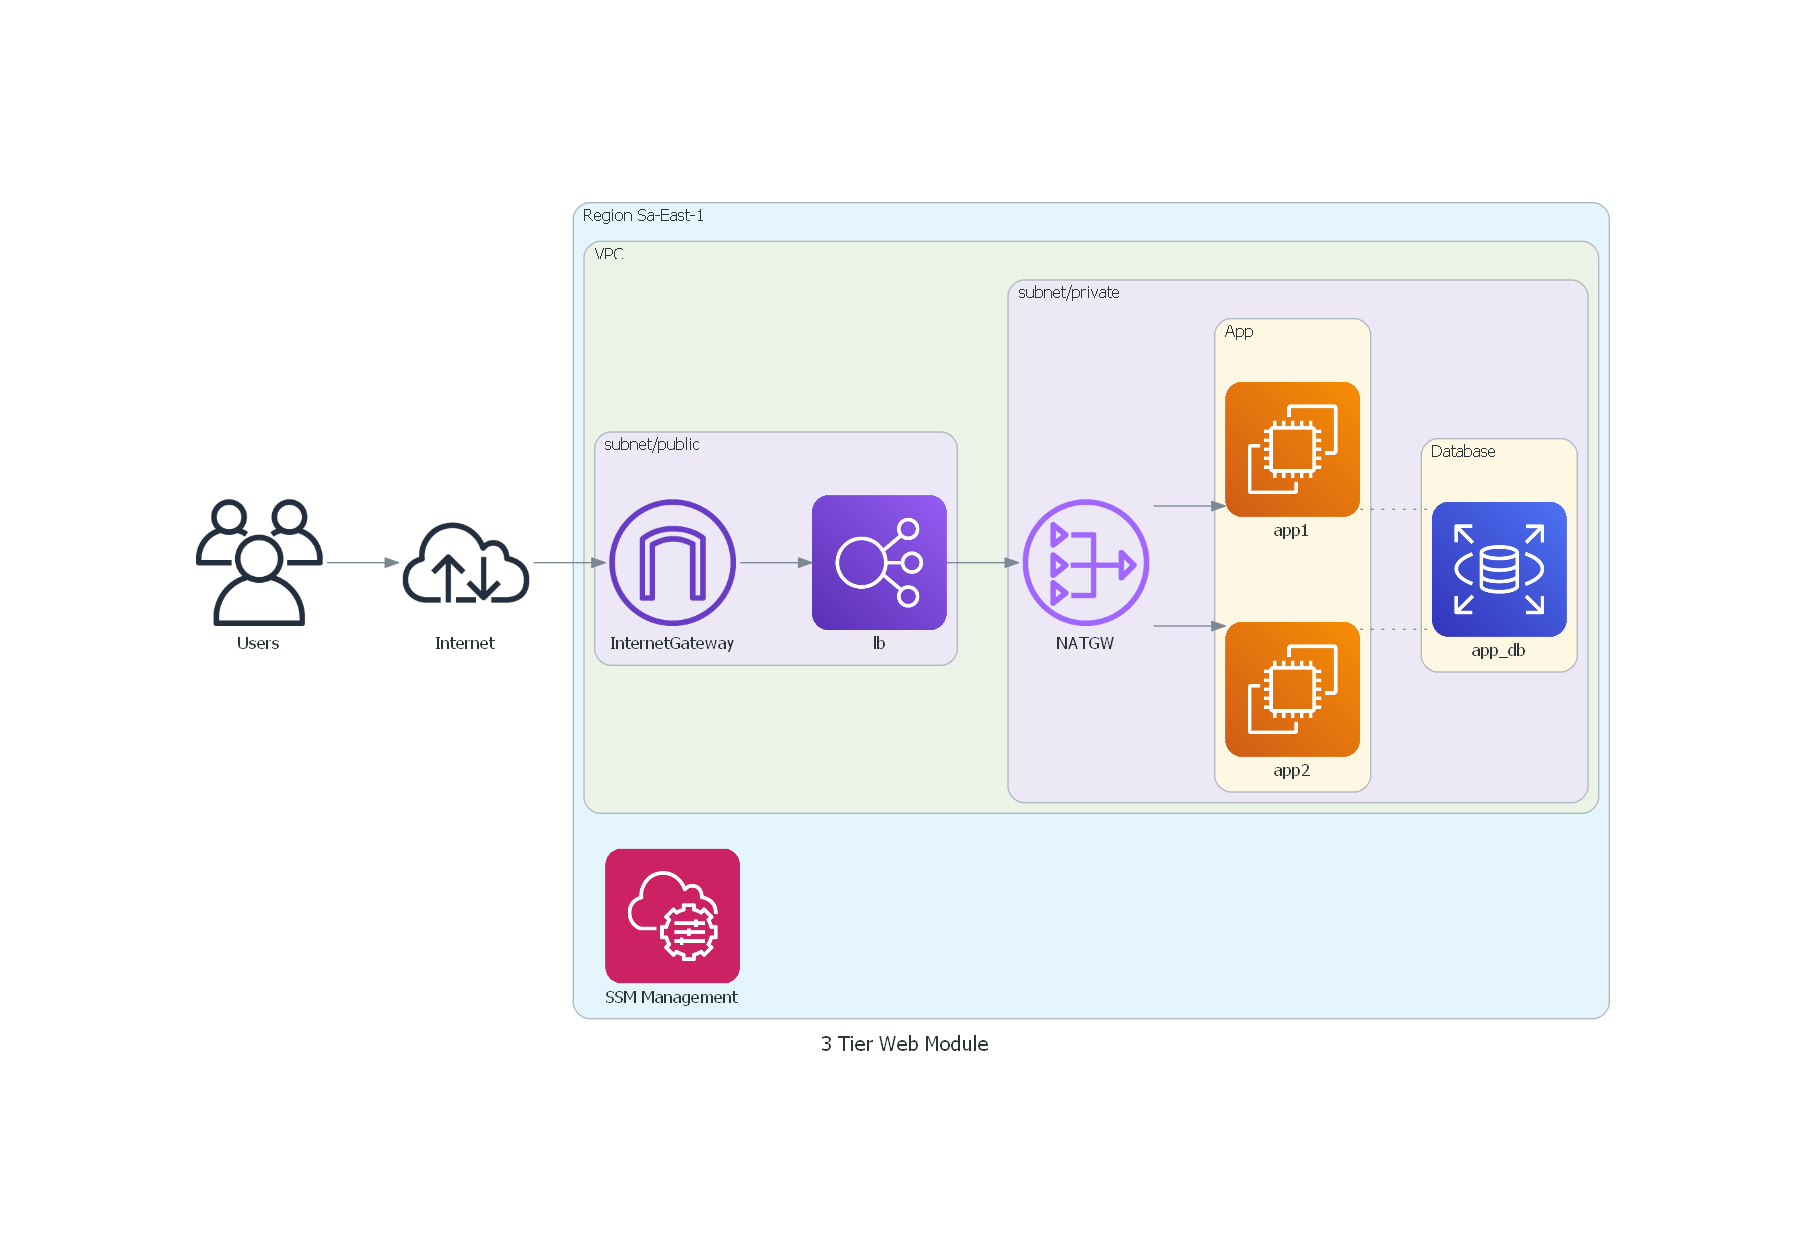
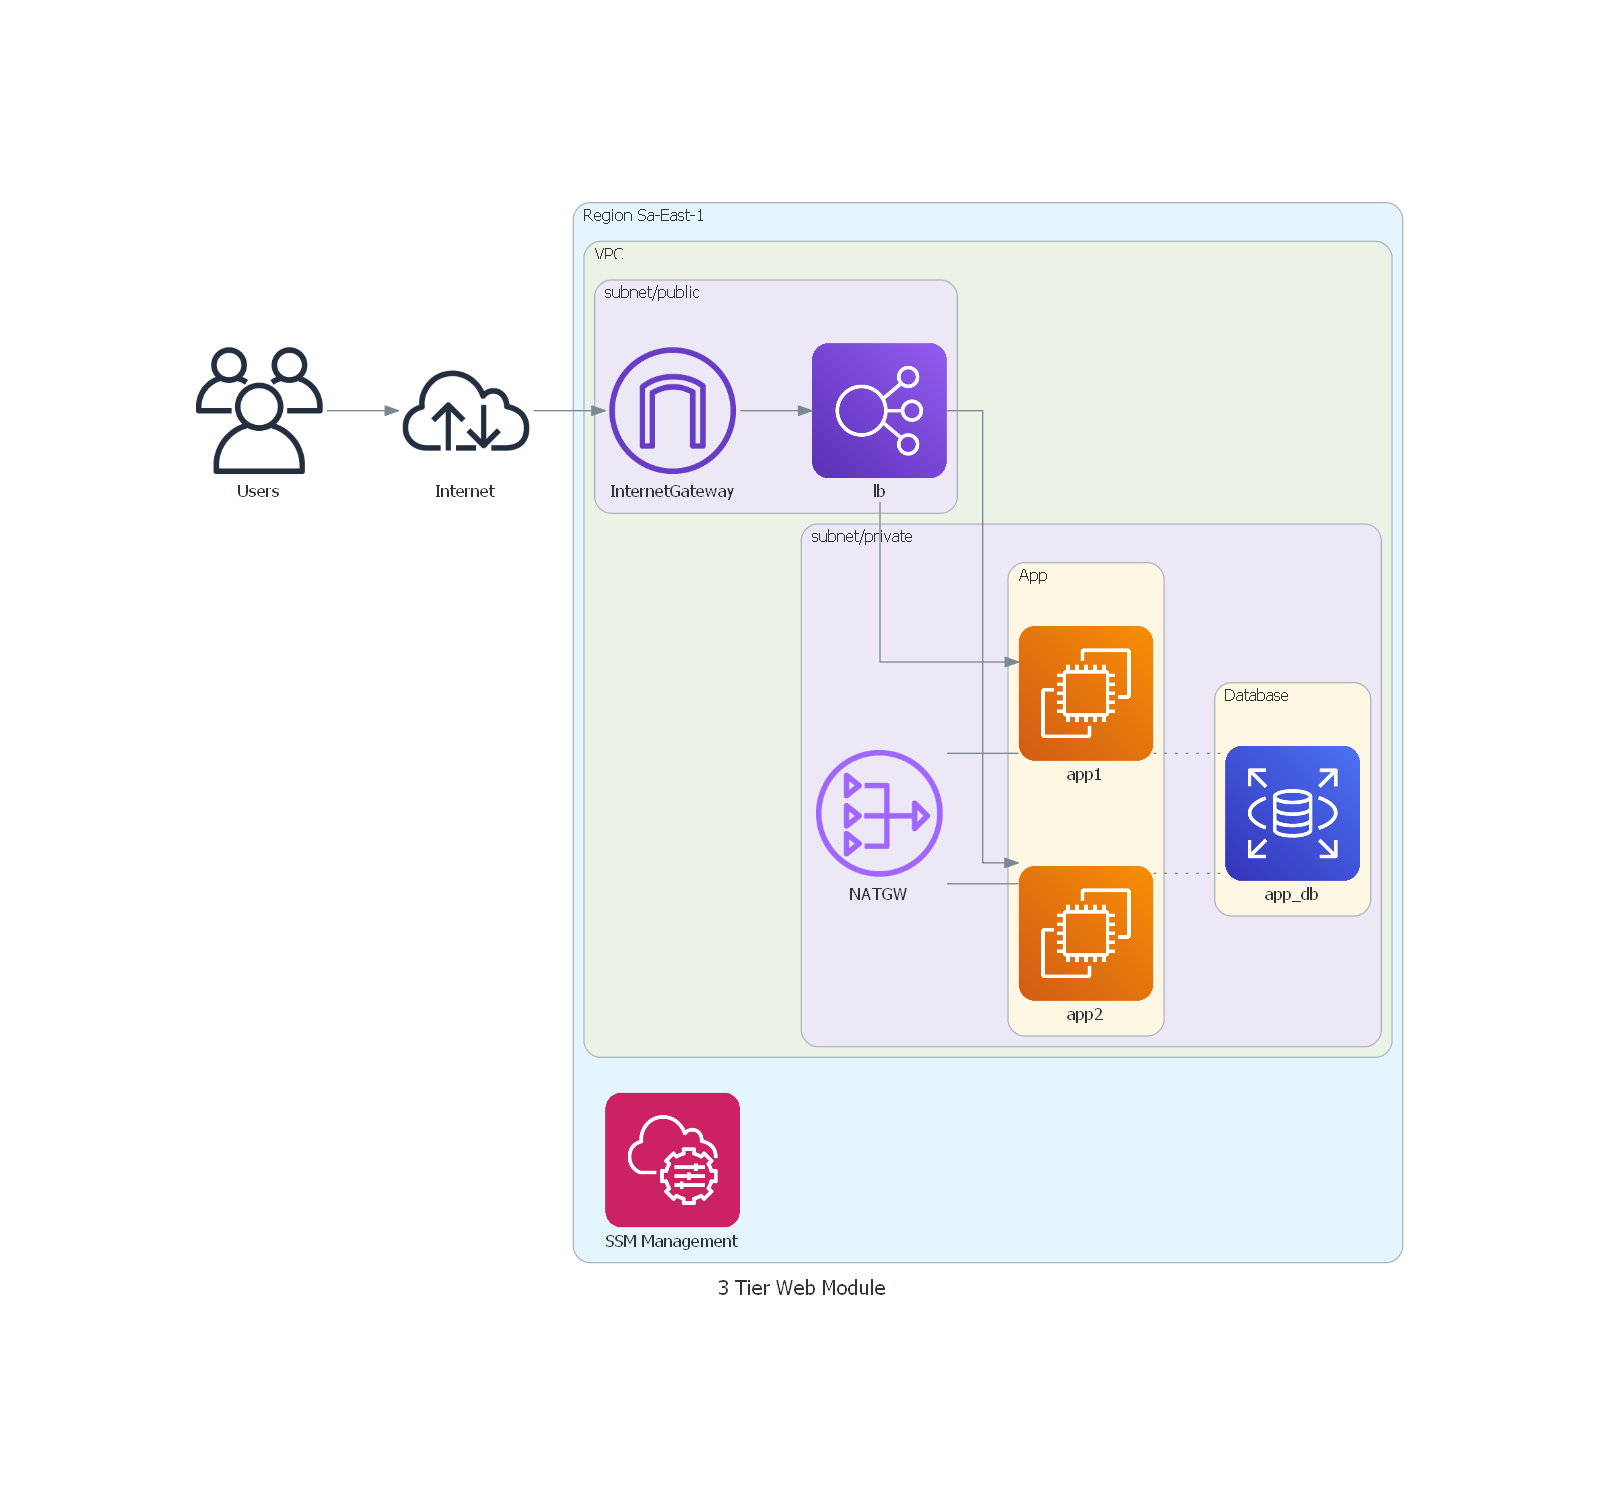
new version arch

Changed region(s): [[0.2181, 0.1243, 0.9034, 0.8701], [0.0935, 0.404, 0.1869, 0.5283], [0.1246, 0.2175, 0.2181, 0.3418]]

diff --git a/media/arch.py b/media/arch.py
@@ -23,7 +23,7 @@ with Diagram("3 Tier Web Module", show=False):
                     database = RDS("app_db")
                 natgw = NATGateway("NATGW")
 
-    users >> internet >> igw >> lb >> natgw
-    natgw >> auto_scaling_group
+    users >> internet >> igw >> lb >> auto_scaling_group
+    natgw - auto_scaling_group
     auto_scaling_group - Edge(style="dotted") - database
     ssm >> Cluster("subnet/private")
